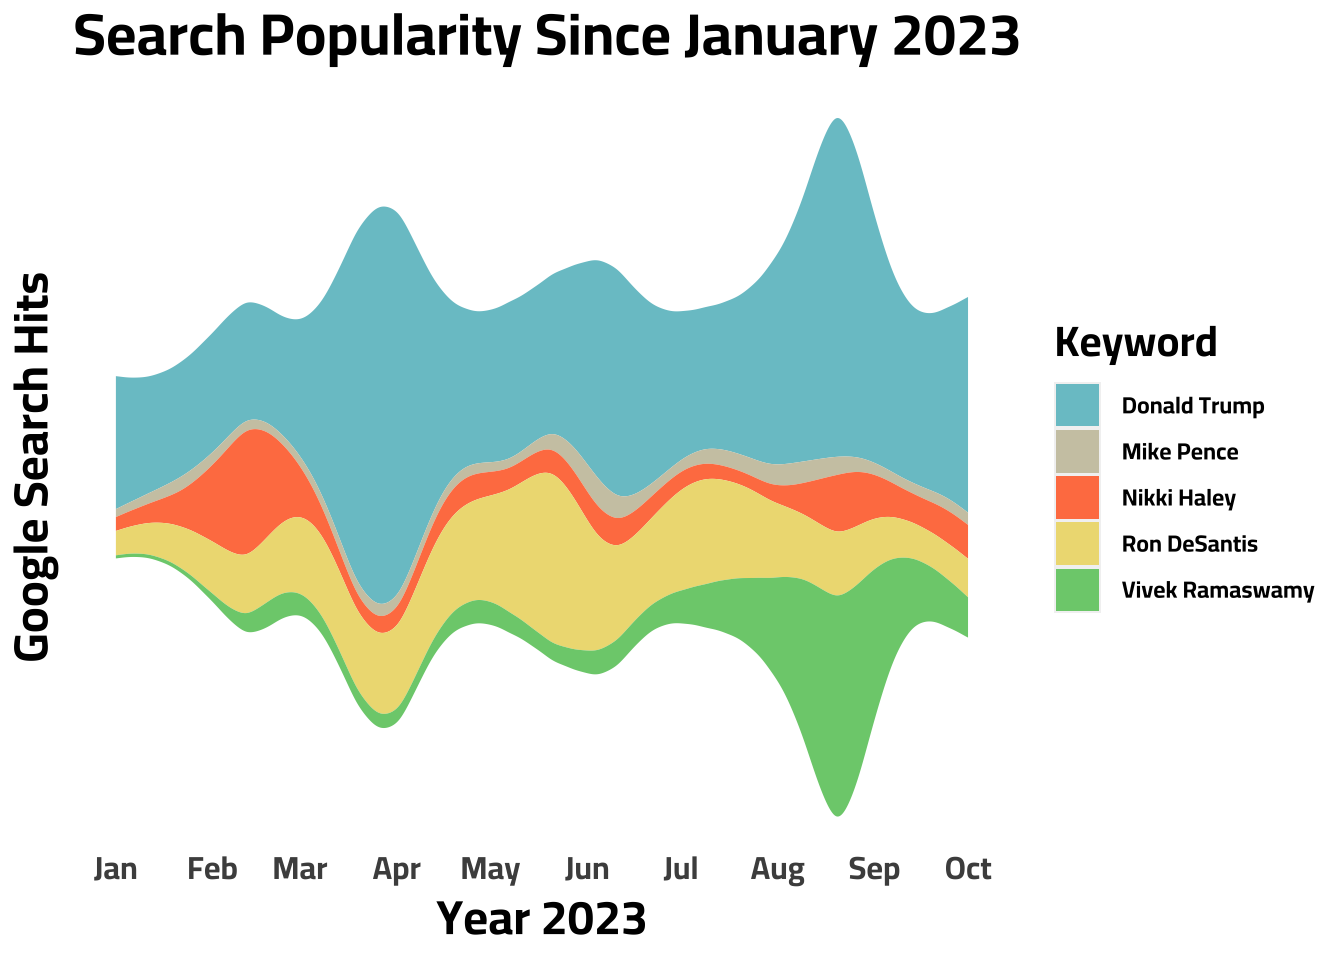
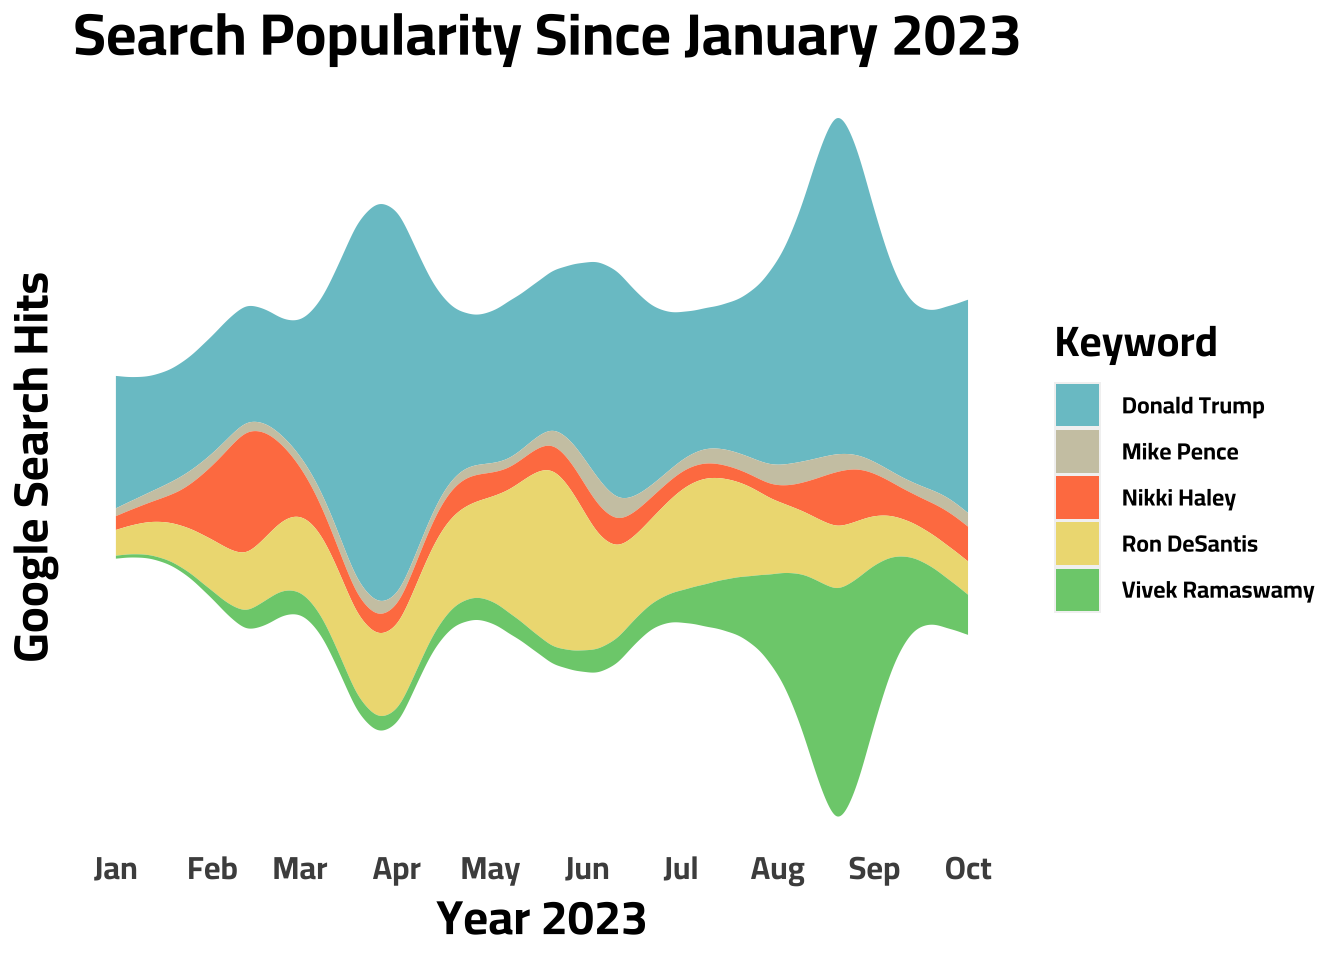
StreamGraph Update

diff --git a/_site/blog.html b/_site/blog.html
@@ -178,7 +178,7 @@ ul.task-list li input[type="checkbox"] {
 
 <div class="quarto-listing quarto-listing-container-default" id="listing-listing">
 <div class="list quarto-listing-default">
-<div class="quarto-post image-right" data-index="0" data-categories="Google Trends,Data Journalism,Politics,CICD" data-listing-date-sort="1696377600000" data-listing-file-modified-sort="1696854372101" data-listing-date-modified-sort="NaN" data-listing-reading-time-sort="7">
+<div class="quarto-post image-right" data-index="0" data-categories="Google Trends,Data Journalism,Politics,CICD" data-listing-date-sort="1696377600000" data-listing-file-modified-sort="1696940623353" data-listing-date-modified-sort="NaN" data-listing-reading-time-sort="7">
 <div class="thumbnail">
 <p><a href="./posts/primary_stream/index.html"> <img src="././about_files/primary_1.png" class="thumbnail-image"> </a></p>
 </div>
@@ -215,7 +215,7 @@ Oct 4, 2023
 </a>
 </div>
 </div>
-<div class="quarto-post image-right" data-index="1" data-categories="CICD,Quarto" data-listing-date-sort="1694044800000" data-listing-file-modified-sort="1696854372098" data-listing-date-modified-sort="NaN" data-listing-reading-time-sort="8">
+<div class="quarto-post image-right" data-index="1" data-categories="CICD,Quarto" data-listing-date-sort="1694044800000" data-listing-file-modified-sort="1696940623350" data-listing-date-modified-sort="NaN" data-listing-reading-time-sort="8">
 <div class="thumbnail">
 <p><a href="./posts/cicd_primary/index.html"> <img src="https://external-content.duckduckgo.com/iu/?u=https%3A%2F%2Fwww.adictosaltrabajo.com%2Fwp-content%2Fuploads%2F2020%2F10%2Fandroid-github-actions-setup-image-35b6a79fea4a7289acb6796cd4ad05b4.png&amp;f=1&amp;nofb=1&amp;ipt=b02a4ecfb6e2d666f35916b643a6f3e9907e880252d1e19d3eda47521252e9c3&amp;ipo=images" class="thumbnail-image"> </a></p>
 </div>
@@ -246,7 +246,7 @@ Sep 7, 2023
 </a>
 </div>
 </div>
-<div class="quarto-post image-right" data-index="2" data-categories="Life Hacks,Quarto" data-listing-date-sort="1688601600000" data-listing-file-modified-sort="1696854372102" data-listing-date-modified-sort="NaN" data-listing-reading-time-sort="3">
+<div class="quarto-post image-right" data-index="2" data-categories="Life Hacks,Quarto" data-listing-date-sort="1688601600000" data-listing-file-modified-sort="1696940623354" data-listing-date-modified-sort="NaN" data-listing-reading-time-sort="3">
 <div class="thumbnail">
 <p><a href="./posts/simple_analytics/index.html"> <img src="./about_files/Simple_Analytics.png" class="thumbnail-image"> </a></p>
 </div>
@@ -277,7 +277,7 @@ Jul 6, 2023
 </a>
 </div>
 </div>
-<div class="quarto-post image-right" data-index="3" data-categories="Data Journalism,Google Trends,Politics" data-listing-date-sort="1687824000000" data-listing-file-modified-sort="1696854372099" data-listing-date-modified-sort="NaN" data-listing-reading-time-sort="7">
+<div class="quarto-post image-right" data-index="3" data-categories="Data Journalism,Google Trends,Politics" data-listing-date-sort="1687824000000" data-listing-file-modified-sort="1696940623351" data-listing-date-modified-sort="NaN" data-listing-reading-time-sort="7">
 <div class="thumbnail">
 <p><a href="./posts/google_trends/index.html"> <img src="./about_files/byteman.png" class="thumbnail-image"> </a></p>
 </div>
@@ -311,7 +311,7 @@ Jun 27, 2023
 </a>
 </div>
 </div>
-<div class="quarto-post image-right" data-index="4" data-categories="Data Journalism,LDS,R" data-listing-date-sort="1675728000000" data-listing-file-modified-sort="1696854372100" data-listing-date-modified-sort="NaN" data-listing-reading-time-sort="4">
+<div class="quarto-post image-right" data-index="4" data-categories="Data Journalism,LDS,R" data-listing-date-sort="1675728000000" data-listing-file-modified-sort="1696940623352" data-listing-date-modified-sort="NaN" data-listing-reading-time-sort="4">
 <div class="thumbnail">
 <p><a href="./posts/income_myth/index.html"> <img src="./about_files/LDS_myth_0.png" class="thumbnail-image"> </a></p>
 </div>
@@ -345,7 +345,7 @@ Feb 7, 2023
 </a>
 </div>
 </div>
-<div class="quarto-post image-right" data-index="5" data-categories="Life Hacks,Quarto" data-listing-date-sort="1662076800000" data-listing-file-modified-sort="1696854372101" data-listing-date-modified-sort="NaN" data-listing-reading-time-sort="3">
+<div class="quarto-post image-right" data-index="5" data-categories="Life Hacks,Quarto" data-listing-date-sort="1662076800000" data-listing-file-modified-sort="1696940623353" data-listing-date-modified-sort="NaN" data-listing-reading-time-sort="3">
 <div class="thumbnail">
 <p><a href="./posts/resume/index.html"> <img src="./about_files/resume_2.png" class="thumbnail-image"> </a></p>
 </div>
@@ -376,7 +376,7 @@ Sep 2, 2022
 </a>
 </div>
 </div>
-<div class="quarto-post image-right" data-index="6" data-listing-date-sort="1646265600000" data-listing-file-modified-sort="1696854372097" data-listing-date-modified-sort="NaN" data-listing-reading-time-sort="1">
+<div class="quarto-post image-right" data-index="6" data-listing-date-sort="1646265600000" data-listing-file-modified-sort="1696940623348" data-listing-date-modified-sort="NaN" data-listing-reading-time-sort="1">
 <div class="thumbnail">
 <p><a href="./posts/7_facts/index.html"> <div class="listing-item-img-placeholder card-img-top" >&nbsp;</div> </a></p>
 </div>
@@ -398,7 +398,7 @@ Mar 3, 2022
 </a>
 </div>
 </div>
-<div class="quarto-post image-right" data-index="7" data-categories="Data Journalism,R" data-listing-date-sort="1618012800000" data-listing-file-modified-sort="1696854372099" data-listing-date-modified-sort="NaN" data-listing-reading-time-sort="4">
+<div class="quarto-post image-right" data-index="7" data-categories="Data Journalism,R" data-listing-date-sort="1618012800000" data-listing-file-modified-sort="1696940623350" data-listing-date-modified-sort="NaN" data-listing-reading-time-sort="4">
 <div class="thumbnail">
 <p><a href="./posts/facebook_data/index.html"> <img src="./about_files/fb_icon" class="thumbnail-image"> </a></p>
 </div>
@@ -429,7 +429,7 @@ Apr 10, 2021
 </a>
 </div>
 </div>
-<div class="quarto-post image-right" data-index="8" data-categories="Data Journalism,R,Survey Research,LDS,Politics" data-listing-date-sort="1607472000000" data-listing-file-modified-sort="1696854372100" data-listing-date-modified-sort="NaN" data-listing-reading-time-sort="8">
+<div class="quarto-post image-right" data-index="8" data-categories="Data Journalism,R,Survey Research,LDS,Politics" data-listing-date-sort="1607472000000" data-listing-file-modified-sort="1696940623352" data-listing-date-modified-sort="NaN" data-listing-reading-time-sort="8">
 <div class="thumbnail">
 <p><a href="./posts/lds_gop/index.html"> <img src="./about_files/iu-3.jpeg" class="thumbnail-image"> </a></p>
 </div>
@@ -469,7 +469,7 @@ Dec 9, 2020
 </a>
 </div>
 </div>
-<div class="quarto-post image-right" data-index="9" data-categories="Data Journalism,R" data-listing-date-sort="1594339200000" data-listing-file-modified-sort="1696854372098" data-listing-date-modified-sort="NaN" data-listing-reading-time-sort="7">
+<div class="quarto-post image-right" data-index="9" data-categories="Data Journalism,R" data-listing-date-sort="1594339200000" data-listing-file-modified-sort="1696940623349" data-listing-date-modified-sort="NaN" data-listing-reading-time-sort="7">
 <div class="thumbnail">
 <p><a href="./posts/cars/index.html"> <img src="https://media.giphy.com/media/rUE9CTmsYMbbOz2MqD/giphy.gif" class="thumbnail-image"> </a></p>
 </div>
@@ -500,7 +500,7 @@ Jul 10, 2020
 </a>
 </div>
 </div>
-<div class="quarto-post image-right" data-index="10" data-categories="Data Journalism,R,Shiny" data-listing-date-sort="1591660800000" data-listing-file-modified-sort="1696854372100" data-listing-date-modified-sort="NaN" data-listing-reading-time-sort="7">
+<div class="quarto-post image-right" data-index="10" data-categories="Data Journalism,R,Shiny" data-listing-date-sort="1591660800000" data-listing-file-modified-sort="1696940623352" data-listing-date-modified-sort="NaN" data-listing-reading-time-sort="7">
 <div class="thumbnail">
 <p><a href="./posts/mobility/index.html"> <img src="./about_files/iu-2.jpeg" class="thumbnail-image"> </a></p>
 </div>

diff --git a/_site/projects.html b/_site/projects.html
@@ -178,7 +178,7 @@ ul.task-list li input[type="checkbox"] {
 
 <div class="quarto-listing quarto-listing-container-grid" id="listing-listing">
 <div class="list grid quarto-listing-cols-3">
-<div class="g-col-1" data-index="0" data-categories="Capstone,Python,Stats" data-listing-date-sort="1682899200000" data-listing-file-modified-sort="1696854372117" data-listing-date-modified-sort="NaN" data-listing-reading-time-sort="4">
+<div class="g-col-1" data-index="0" data-categories="Capstone,Python,Stats" data-listing-date-sort="1682899200000" data-listing-file-modified-sort="1696940623365" data-listing-date-modified-sort="NaN" data-listing-reading-time-sort="4">
 <a href="./projects/internet_archive/index.html" class="quarto-grid-link">
 <div class="quarto-grid-item card h-100 card-left">
 <p class="card-img-top">
@@ -211,7 +211,7 @@ May 1, 2023
 </div>
 </a>
 </div>
-<div class="g-col-1" data-index="1" data-categories="Python,Stats,Dataviz" data-listing-date-sort="1660867200000" data-listing-file-modified-sort="1696854372113" data-listing-date-modified-sort="NaN" data-listing-reading-time-sort="10">
+<div class="g-col-1" data-index="1" data-categories="Python,Stats,Dataviz" data-listing-date-sort="1660867200000" data-listing-file-modified-sort="1696940623362" data-listing-date-modified-sort="NaN" data-listing-reading-time-sort="10">
 <a href="./projects/bayesian_county/index.html" class="quarto-grid-link">
 <div class="quarto-grid-item card h-100 card-left">
 <p class="card-img-top">
@@ -244,7 +244,7 @@ Aug 19, 2022
 </div>
 </a>
 </div>
-<div class="g-col-1" data-index="2" data-categories="CI/CD,R,Dataviz" data-listing-date-sort="1636329600000" data-listing-file-modified-sort="1696854372113" data-listing-date-modified-sort="NaN" data-listing-reading-time-sort="3">
+<div class="g-col-1" data-index="2" data-categories="CI/CD,R,Dataviz" data-listing-date-sort="1636329600000" data-listing-file-modified-sort="1696940623363" data-listing-date-modified-sort="NaN" data-listing-reading-time-sort="3">
 <a href="./projects/covid_update/index.html" class="quarto-grid-link">
 <div class="quarto-grid-item card h-100 card-left">
 <p class="card-img-top">
@@ -277,7 +277,7 @@ Nov 8, 2021
 </div>
 </a>
 </div>
-<div class="g-col-1" data-index="3" data-categories="Dataviz,Stats,R" data-listing-date-sort="1600387200000" data-listing-file-modified-sort="1696854372114" data-listing-date-modified-sort="NaN" data-listing-reading-time-sort="2">
+<div class="g-col-1" data-index="3" data-categories="Dataviz,Stats,R" data-listing-date-sort="1600387200000" data-listing-file-modified-sort="1696940623363" data-listing-date-modified-sort="NaN" data-listing-reading-time-sort="2">
 <a href="./projects/election_model/index.html" class="quarto-grid-link">
 <div class="quarto-grid-item card h-100 card-left">
 <p class="card-img-top">
@@ -310,7 +310,7 @@ Sep 18, 2020
 </div>
 </a>
 </div>
-<div class="g-col-1" data-index="4" data-categories="R,Shiny" data-listing-date-sort="1596153600000" data-listing-file-modified-sort="1696854372117" data-listing-date-modified-sort="NaN" data-listing-reading-time-sort="2">
+<div class="g-col-1" data-index="4" data-categories="R,Shiny" data-listing-date-sort="1596153600000" data-listing-file-modified-sort="1696940623366" data-listing-date-modified-sort="NaN" data-listing-reading-time-sort="2">
 <a href="./projects/peanuts/index.html" class="quarto-grid-link">
 <div class="quarto-grid-item card h-100 card-left">
 <p class="card-img-top">
@@ -340,7 +340,7 @@ Jul 31, 2020
 </div>
 </a>
 </div>
-<div class="g-col-1" data-index="5" data-categories="Capstone,R,Stats" data-listing-date-sort="1587772800000" data-listing-file-modified-sort="1696854372120" data-listing-date-modified-sort="NaN" data-listing-reading-time-sort="6">
+<div class="g-col-1" data-index="5" data-categories="Capstone,R,Stats" data-listing-date-sort="1587772800000" data-listing-file-modified-sort="1696940623368" data-listing-date-modified-sort="NaN" data-listing-reading-time-sort="6">
 <a href="./projects/star_wars_capstone/index.html" class="quarto-grid-link">
 <div class="quarto-grid-item card h-100 card-left">
 <p class="card-img-top">

diff --git a/_site/posts/primary_stream/index.html b/_site/posts/primary_stream/index.html
@@ -181,7 +181,7 @@ Note
 </div>
 </div>
 <div class="callout-body-container callout-body">
-<p>This graph is updated on a daily basis to provide continuous context to the GOP Primary Election. This graph was last updated: 12:26:21 on 09 Oct 2023</p>
+<p>This graph is updated on a daily basis to provide continuous context to the GOP Primary Election. This graph was last updated: 12:23:49 on 10 Oct 2023</p>
 </div>
 </div>
 <div class="cell">
@@ -234,7 +234,7 @@ Note
 </div>
 </div>
 <div class="callout-body-container callout-body">
-<p>This graph is updated on a daily basis to provide continuous context to the GOP Primary Election. This graph was last updated: 12:26:28 on 09 Oct 2023</p>
+<p>This graph is updated on a daily basis to provide continuous context to the GOP Primary Election. This graph was last updated: 12:23:55 on 10 Oct 2023</p>
 </div>
 </div>
 <p>This graph is provided to give a barometer reading of a candidates <em>recent</em> popularity/news coverage.</p>
